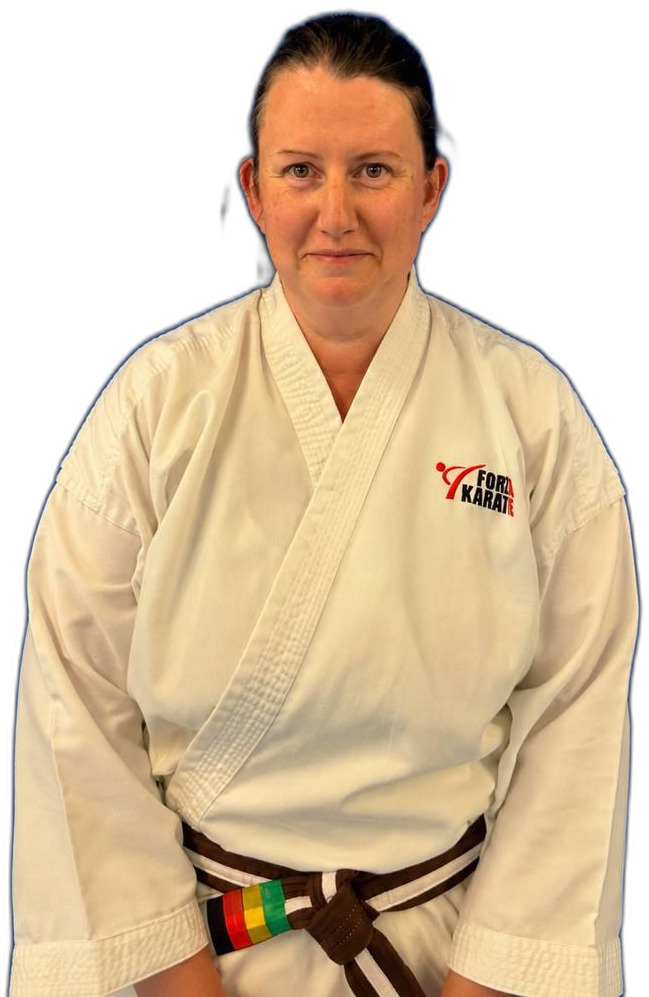
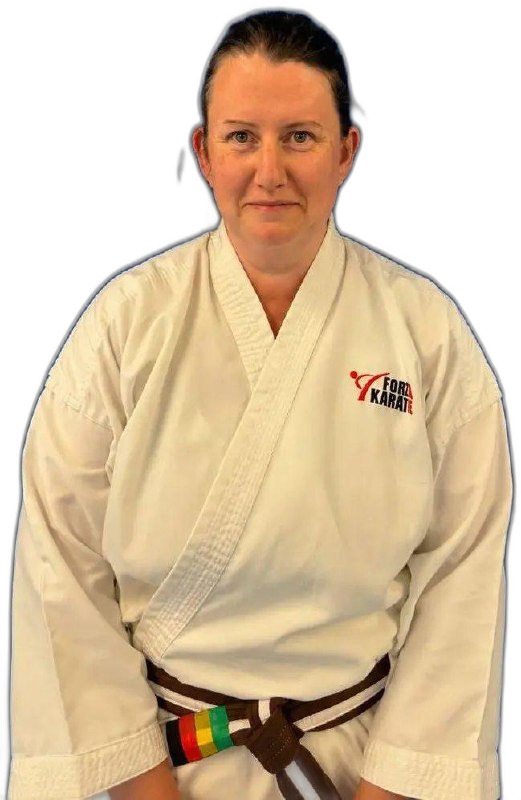
Claire Buss: clean white bg photo, moved to last position

diff --git a/app/instructors/page.tsx b/app/instructors/page.tsx
@@ -32,20 +32,20 @@ const instructors = [
     bio: '',
   },
   {
-    name: 'Claire Buss',
-    grade: '1st Kyu',
-    role: 'Assistant Instructor & Para Head Coach',
-    dojo: 'Rayleigh & Upminster',
-    photo: '/instructors/claire-buss.jpg',
-    bio: '',
-  },
-  {
     name: 'Sensei Jade Honeywood',
     grade: '4th Dan',
     role: 'Senior Instructor',
     dojo: 'Rayleigh & Upminster',
     photo: '/instructors/jade-honeywood.png',
     bio: 'Sensei Jade\'s experience in Karate began at the age of 5. Her love of kumite (competition fighting) helped her to establish herself and gain selection onto the England National Karate Team from 2006–2008. Sensei Jade has been coached by many of Great Britain\'s elite karate ka and coaches — Sensei Ticky Donavan (OBE), Sensei Wayne Otto (OBE), Sensei Willie Thomas, Sensei Molly Samuels, Sensei Tyrone Whyte and Sensei Ian Cole. Sensei Jade has won numerous medals at both English and British International Championships and was a finalist at the EKF European Karate Championships in Izmir, Turkey.\n\nSensei Jade competed in the Wado International Karate Federation (WIKF) World Championships in Texas, USA at the age of 15, winning a gold medal. She later competed at the WIKF European Championships in Amsterdam, Holland, where she also won a gold medal in her style of karate.\n\nIn 2022, Sensei Jade returned to the competition tatami to compete at the EKF Senior English Karate Championships, making a spectacular comeback to win the Senior English National title in the under 68kg category. The spotlight final on the centre tatami at Ponds Forge International Sports Centre, Sheffield, saw Sensei Jade win 4–0, scoring an excellent head kick in the final second — coached throughout by Sensei Anthoni Everitt.\n\nSensei Jade holds a first class BA (Hons) Degree in Sport, Leisure and Educational Development, holds the rank of 4th Dan, and is fully insured, DBS (enhanced) and first aid qualified. She works in partnership with many local primary schools.',
+  },
+  {
+    name: 'Claire Buss',
+    grade: '1st Kyu',
+    role: 'Assistant Instructor & Para Head Coach',
+    dojo: 'Rayleigh & Upminster',
+    photo: '/instructors/claire-buss.jpg',
+    bio: '',
   },
 ]
 